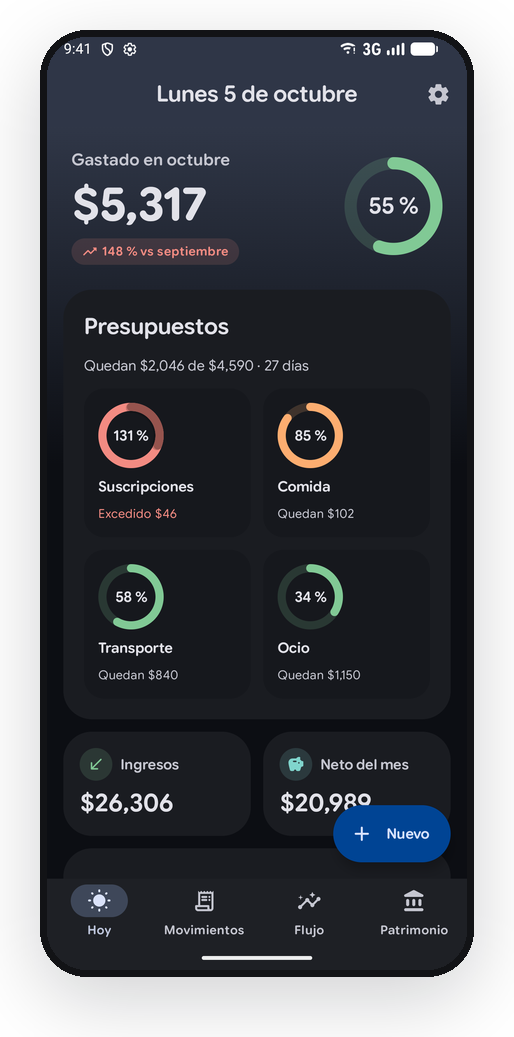
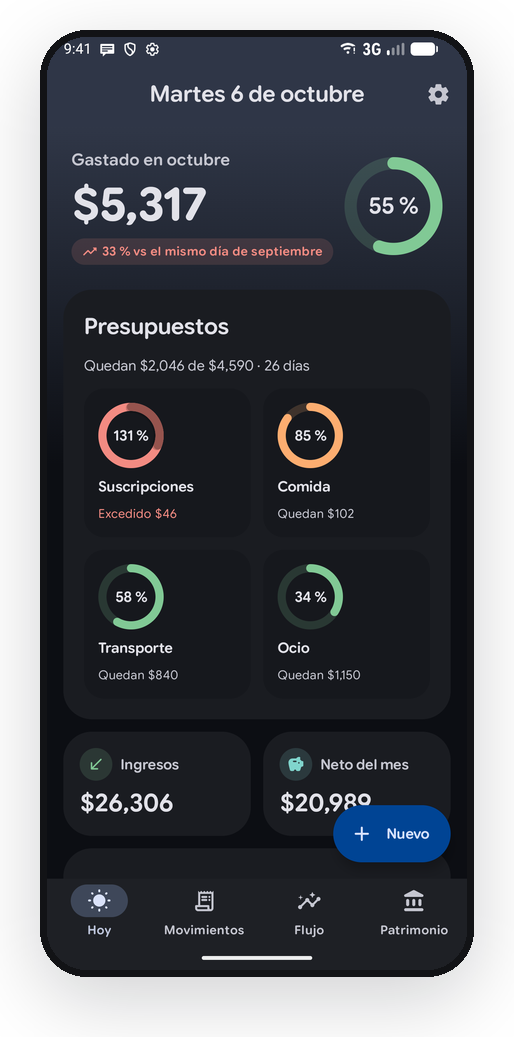
fix(hoy): comparar el gasto contra los mismos días del mes anterior
El "previous" de get_cashflow es el periodo de igual duración justo antes
(los últimos días del mes pasado), así que a inicio de mes la variación
salía inflada. Ahora se pide el rango 1..hoy del mes anterior, en Hoy,
en el widget y en la notificación. Capturas regeneradas con la demo.

Claude-Session: https://claude.ai/code/session_016cmHbtJUwUb4vHH1XiRFVQ

diff --git a/app/src/main/kotlin/mx/diego/wispr/data/Summary.kt b/app/src/main/kotlin/mx/diego/wispr/data/Summary.kt
@@ -34,6 +34,7 @@ data class Glance(
     val currency: String,
     val monthExpense: Long,
     val monthIncome: Long,
+    /** Lo gastado en los mismos días del mes anterior (1 al día de hoy), para comparar parejo. */
     val previousExpense: Long,
     val budgets: List<Budget>,
     val fetchedAt: LocalDateTime,
@@ -46,11 +47,16 @@ data class Glance(
             val cash: CashflowResponse = service.cashflow(
                 WisprDate.string(WisprDate.startOfMonth(today)), WisprDate.string(today),
             )
+            // El "previous" de get_cashflow es el periodo de igual duración justo antes (los
+            // últimos días del mes pasado), no los mismos días del mes pasado: se pide aparte.
+            val lastMonth = WisprDate.startOfMonth(today).minusMonths(1)
+            val sameDay = lastMonth.plusDays((today.dayOfMonth - 1).toLong()).coerceAtMost(WisprDate.endOfMonth(lastMonth))
+            val previous = service.cashflow(WisprDate.string(lastMonth), WisprDate.string(sameDay))
             return Glance(
                 currency = budgets.currency,
                 monthExpense = cash.summary.current.expense,
                 monthIncome = cash.summary.current.income,
-                previousExpense = cash.summary.previous.expense,
+                previousExpense = previous.summary.current.expense,
                 budgets = budgets.budgets.byUrgency(),
                 fetchedAt = LocalDateTime.now(),
             )

diff --git a/app/src/main/kotlin/mx/diego/wispr/ui/screens/TodayScreen.kt b/app/src/main/kotlin/mx/diego/wispr/ui/screens/TodayScreen.kt
@@ -81,7 +81,7 @@ fun TodayContent(snapshot: TodaySnapshot, at: LocalTime, onSeeMovements: () -> U
                 },
             ) {
                 Delta(g.monthExpense, g.previousExpense, higherIsBetter = false,
-                    against = Fmt.month(month.minusMonths(1), withYear = false).lowercase())
+                    against = "el mismo día de ${Fmt.month(month.minusMonths(1), withYear = false).lowercase()}")
             }
         }
         item { BudgetsCard(g, onOpen = { open = it }) }
